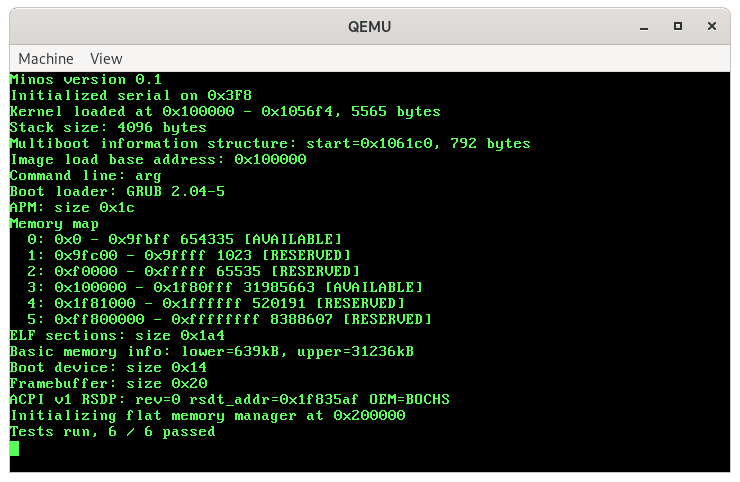
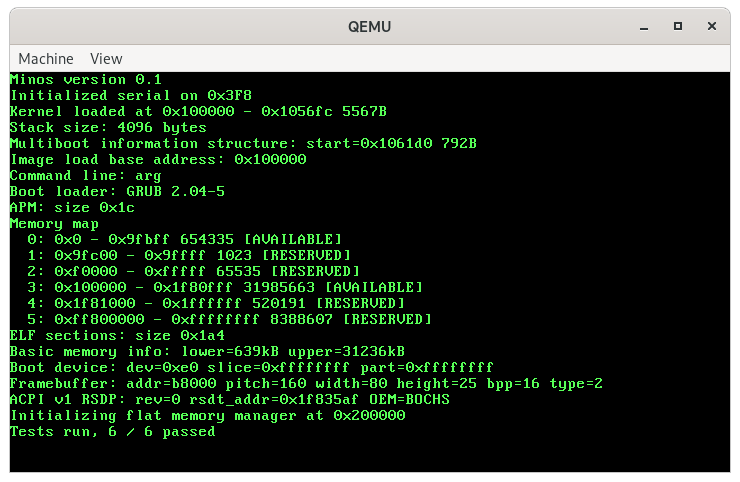
Multiboot2 framebuffer tag

diff --git a/src/boothdr.c b/src/boothdr.c
@@ -25,6 +25,7 @@ static char boot_cmdline[BOOT_CMDLINE_MAX];
 extern struct acpi_descriptor_v1 *acpi_v1;
 extern struct acpi_descriptor_v2 *acpi_v2;
 extern struct boot_device        *boot_dev;
+extern struct framebuffer        *framebuffer;
 
 /*
  * Extract multiboot provided information
@@ -95,7 +96,15 @@ void init_mb(size_t magic, size_t addr) {
         break;
 
       case MULTIBOOT_TAG_TYPE_FRAMEBUFFER:
-        printf("Framebuffer: size 0x%x\n", tag->size);
+        framebuffer->addr   = ((struct multiboot_tag_framebuffer_common *) tag)->framebuffer_addr;
+        framebuffer->pitch  = ((struct multiboot_tag_framebuffer_common *) tag)->framebuffer_pitch;
+        framebuffer->width  = ((struct multiboot_tag_framebuffer_common *) tag)->framebuffer_width;
+        framebuffer->height = ((struct multiboot_tag_framebuffer_common *) tag)->framebuffer_height;
+        framebuffer->bpp    = ((struct multiboot_tag_framebuffer_common *) tag)->framebuffer_bpp;
+        framebuffer->type   = ((struct multiboot_tag_framebuffer_common *) tag)->framebuffer_type;
+        printf("Framebuffer: addr=%x pitch=%d width=%d height=%d bpp=%d type=%d\n",
+            framebuffer->addr, framebuffer->pitch, framebuffer->width,
+            framebuffer->height, framebuffer->bpp, framebuffer->type);
         break;
 
       case MULTIBOOT_TAG_TYPE_ELF_SECTIONS:

diff --git a/src/kernel.c b/src/kernel.c
@@ -37,6 +37,7 @@ extern uintptr_t kernel_end;
 struct boot_device        *boot_dev;
 struct acpi_descriptor_v1 *acpi_v1;
 struct acpi_descriptor_v2 *acpi_v2;
+struct framebuffer        *framebuffer;
 
 /*
  * The entry point into the kernel

diff --git a/src/kernel.h b/src/kernel.h
@@ -51,4 +51,13 @@ struct boot_device {
   uint32_t sub_partition;
 };
 
+struct framebuffer {
+  uint32_t addr;
+  uint32_t pitch;
+  uint32_t width;
+  uint32_t height;
+  uint8_t  bpp;
+  uint8_t  type;
+};
+
 #endif
